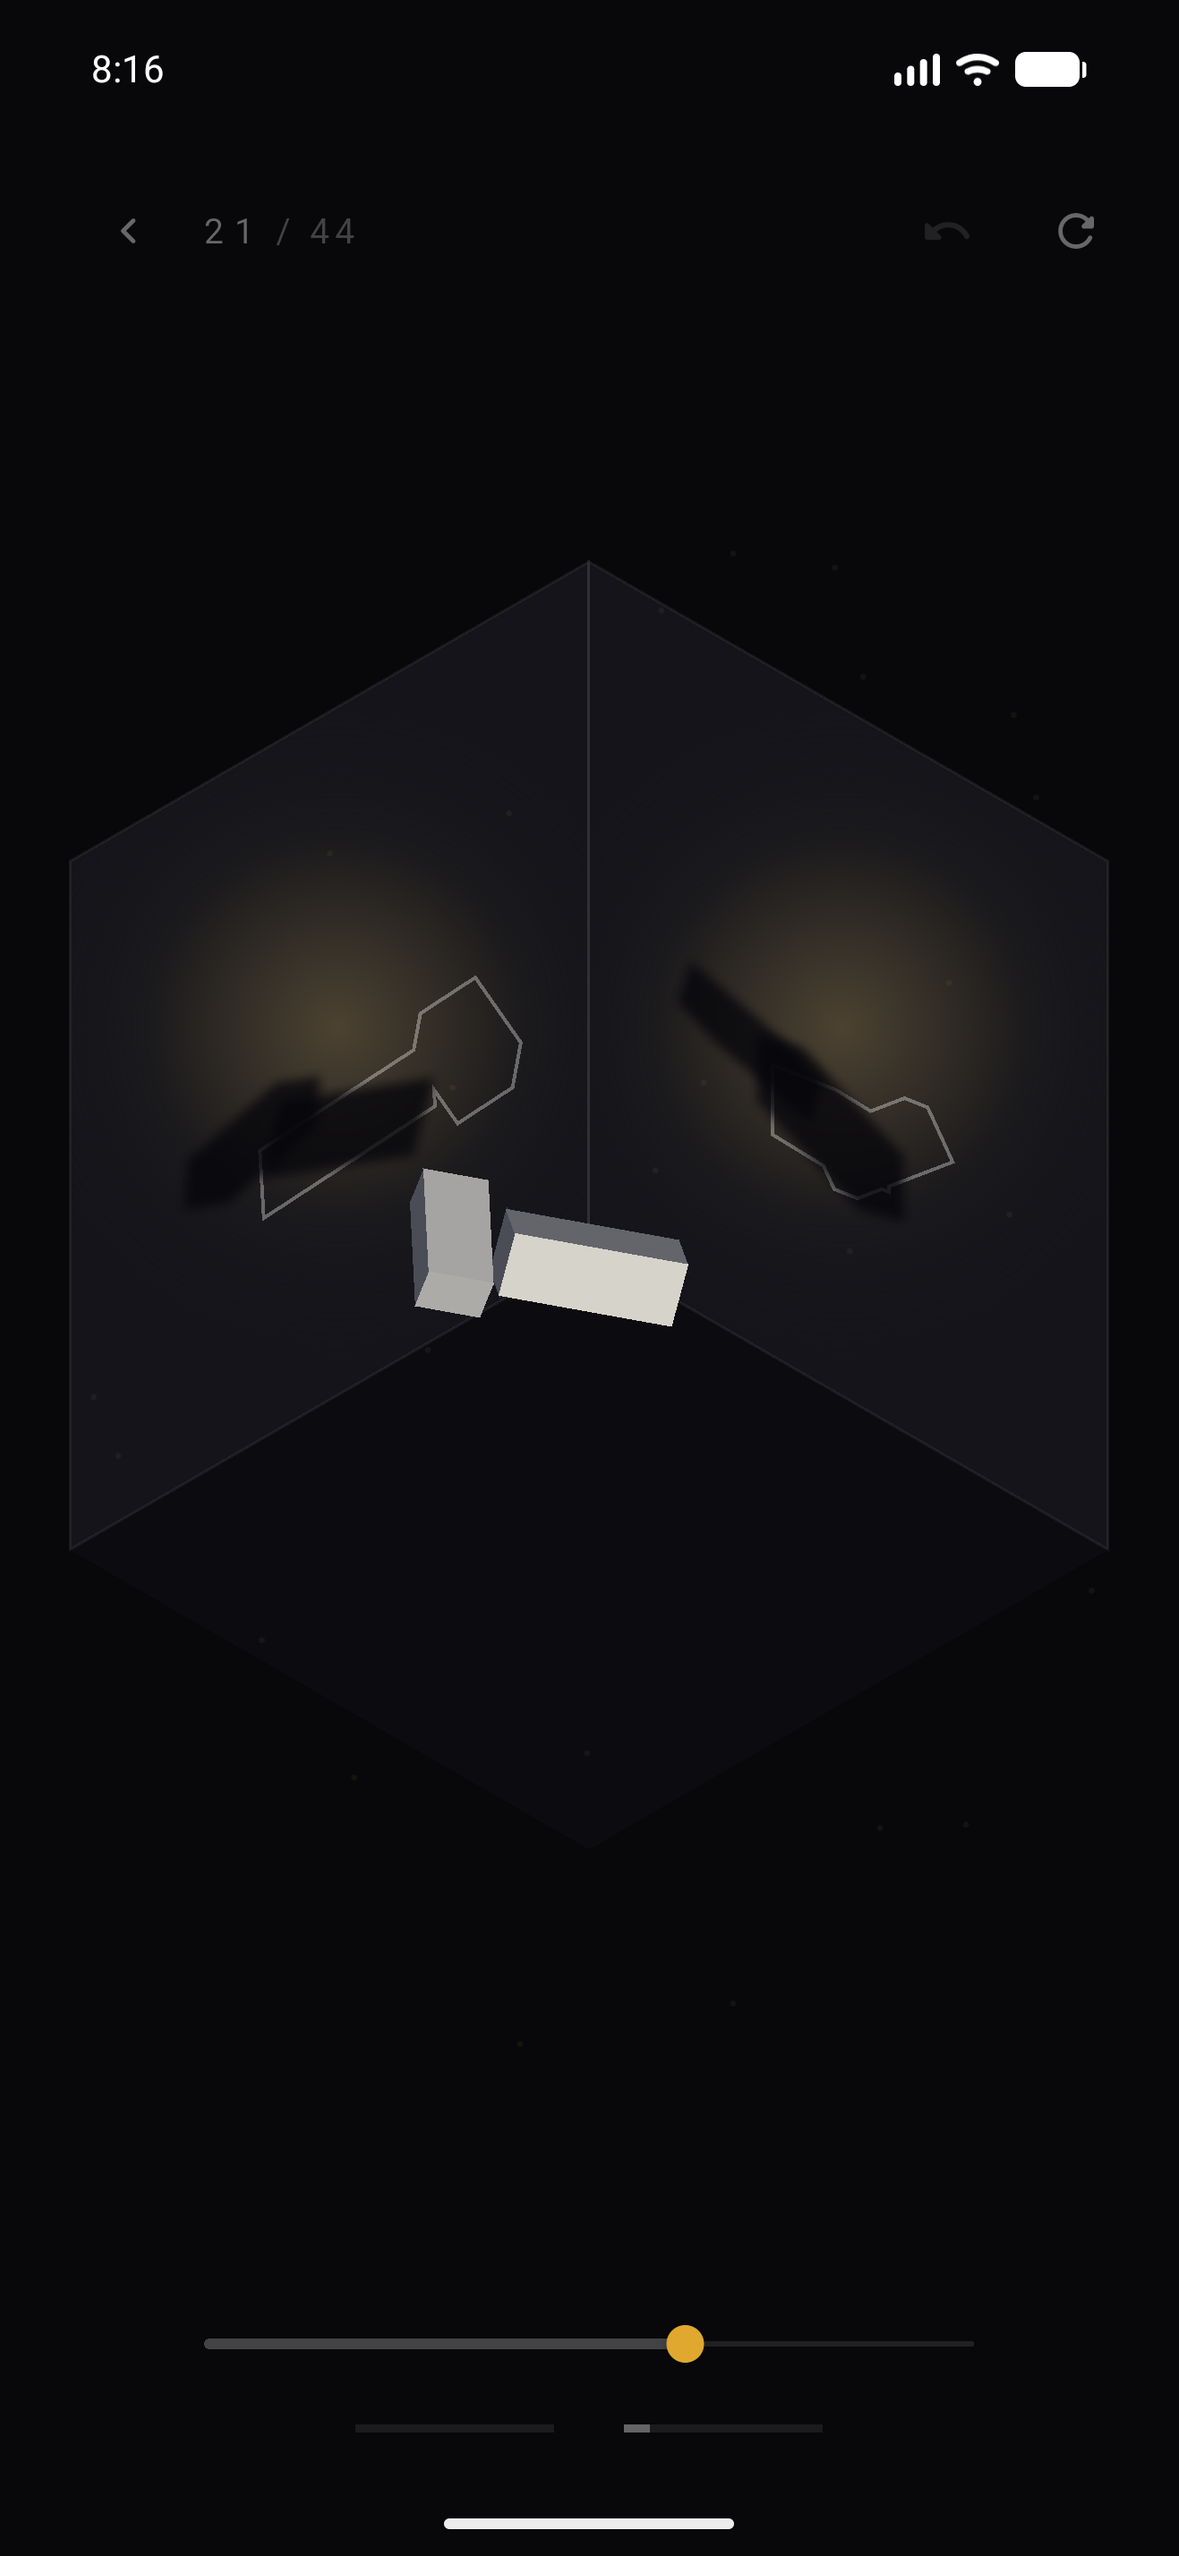
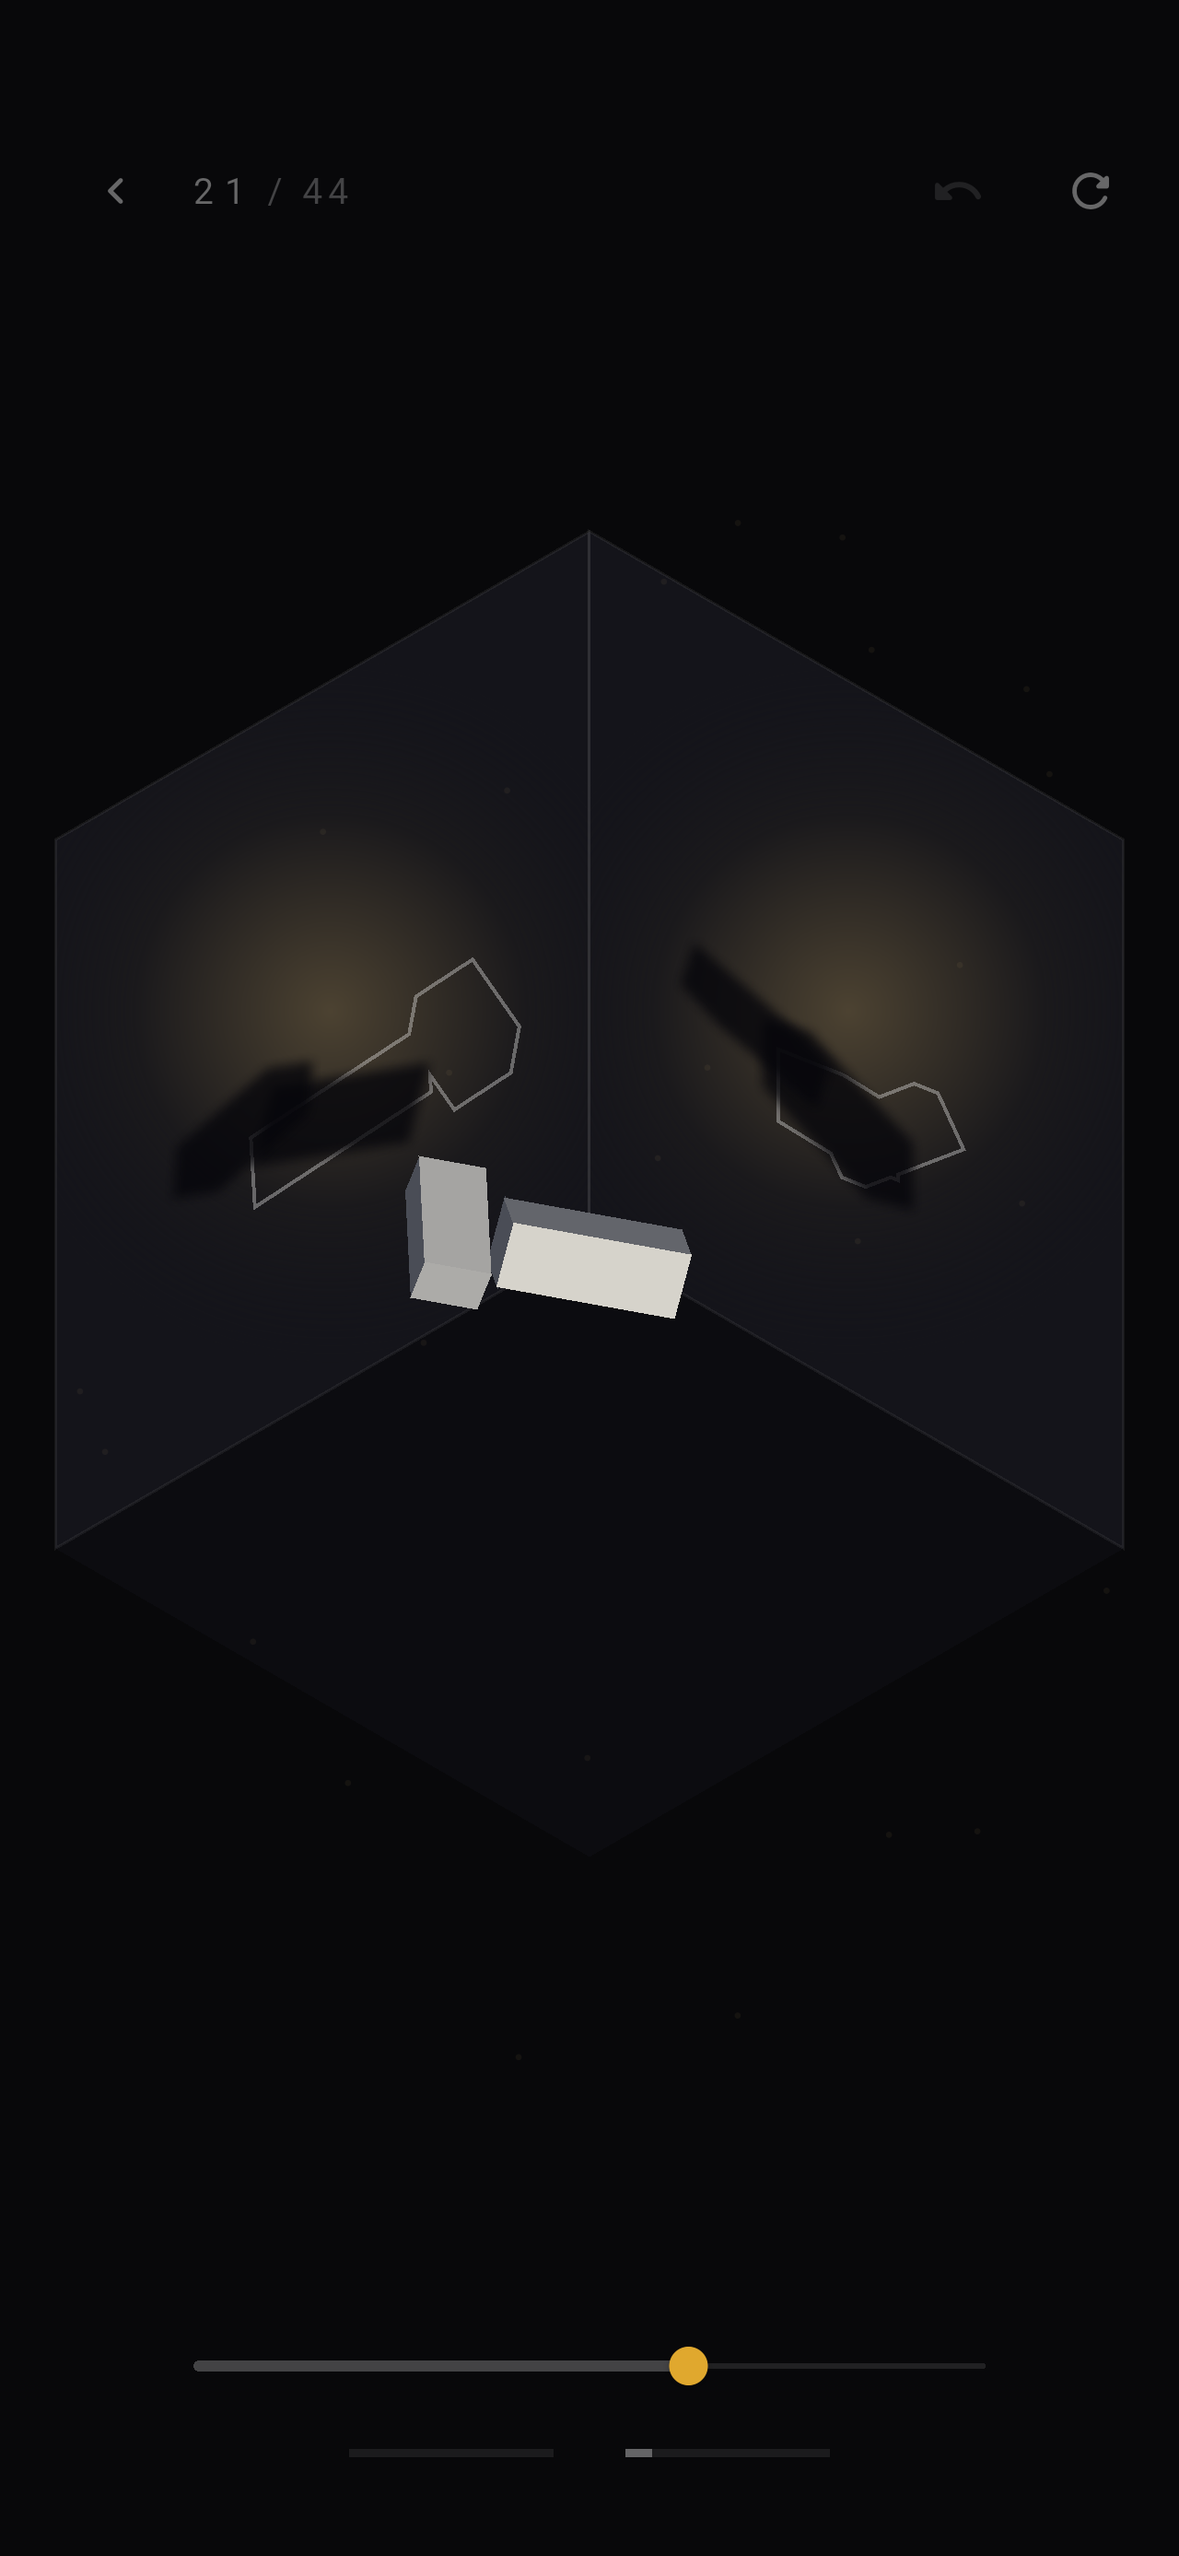
Strip Android chrome from store screenshots, and add the 6.5" size
The captures come from an Android emulator, so every one carried Android's
status bar and gesture pill. Uploading those to an iOS listing advertises the
wrong platform on all six screenshots -- caught only by looking at a thumbnail
in App Store Connect, which is where it would also have been caught by a
reviewer. Cropped before fitting; the game draws nothing in that band.

Also added 1242x2688. The 1.0 submission form presents a 6.5" slot, not the
6.9" one the press kit was built for, and a 1320x2868 file simply will not go
into it.

diff --git a/press/make_shots.py b/press/make_shots.py
@@ -19,10 +19,23 @@ from PIL import Image
 
 BG = (8, 8, 10)  # scaffoldBackgroundColor
 TARGETS = {
-    "store": (1320, 2868),    # App Store, 6.9" iPhone
-    "devpost": (1179, 2556),  # Devpost gallery
+    "store": (1320, 2868),     # App Store, 6.9" iPhone
+    "store65": (1242, 2688),   # App Store, 6.5" iPhone — the slot the 1.0
+                               # submission form actually presents
+    "devpost": (1179, 2556),   # Devpost gallery
 }
 ROOT = os.path.dirname(os.path.dirname(os.path.abspath(__file__)))
+
+
+# The captures come from an ANDROID emulator, so the top carries Android's
+# status bar (clock, wifi, battery) and the bottom its gesture pill. Shipping
+# those in an iOS App Store listing advertises the wrong platform on every
+# screenshot. Cropped away before fitting; the game draws nothing there.
+CROP_TOP, CROP_BOTTOM = 130, 110
+
+
+def strip_chrome(im):
+    return im.crop((0, CROP_TOP, im.width, im.height - CROP_BOTTOM))
 
 
 def fit(im, size):
@@ -41,7 +54,7 @@ def main(paths):
         os.makedirs(os.path.join(ROOT, "press", folder), exist_ok=True)
 
     for path in sorted(paths):
-        src = Image.open(path).convert("RGB")
+        src = strip_chrome(Image.open(path).convert("RGB"))
         name = os.path.basename(path)
         for folder, size in TARGETS.items():
             out = os.path.join(ROOT, "press", folder, name)
